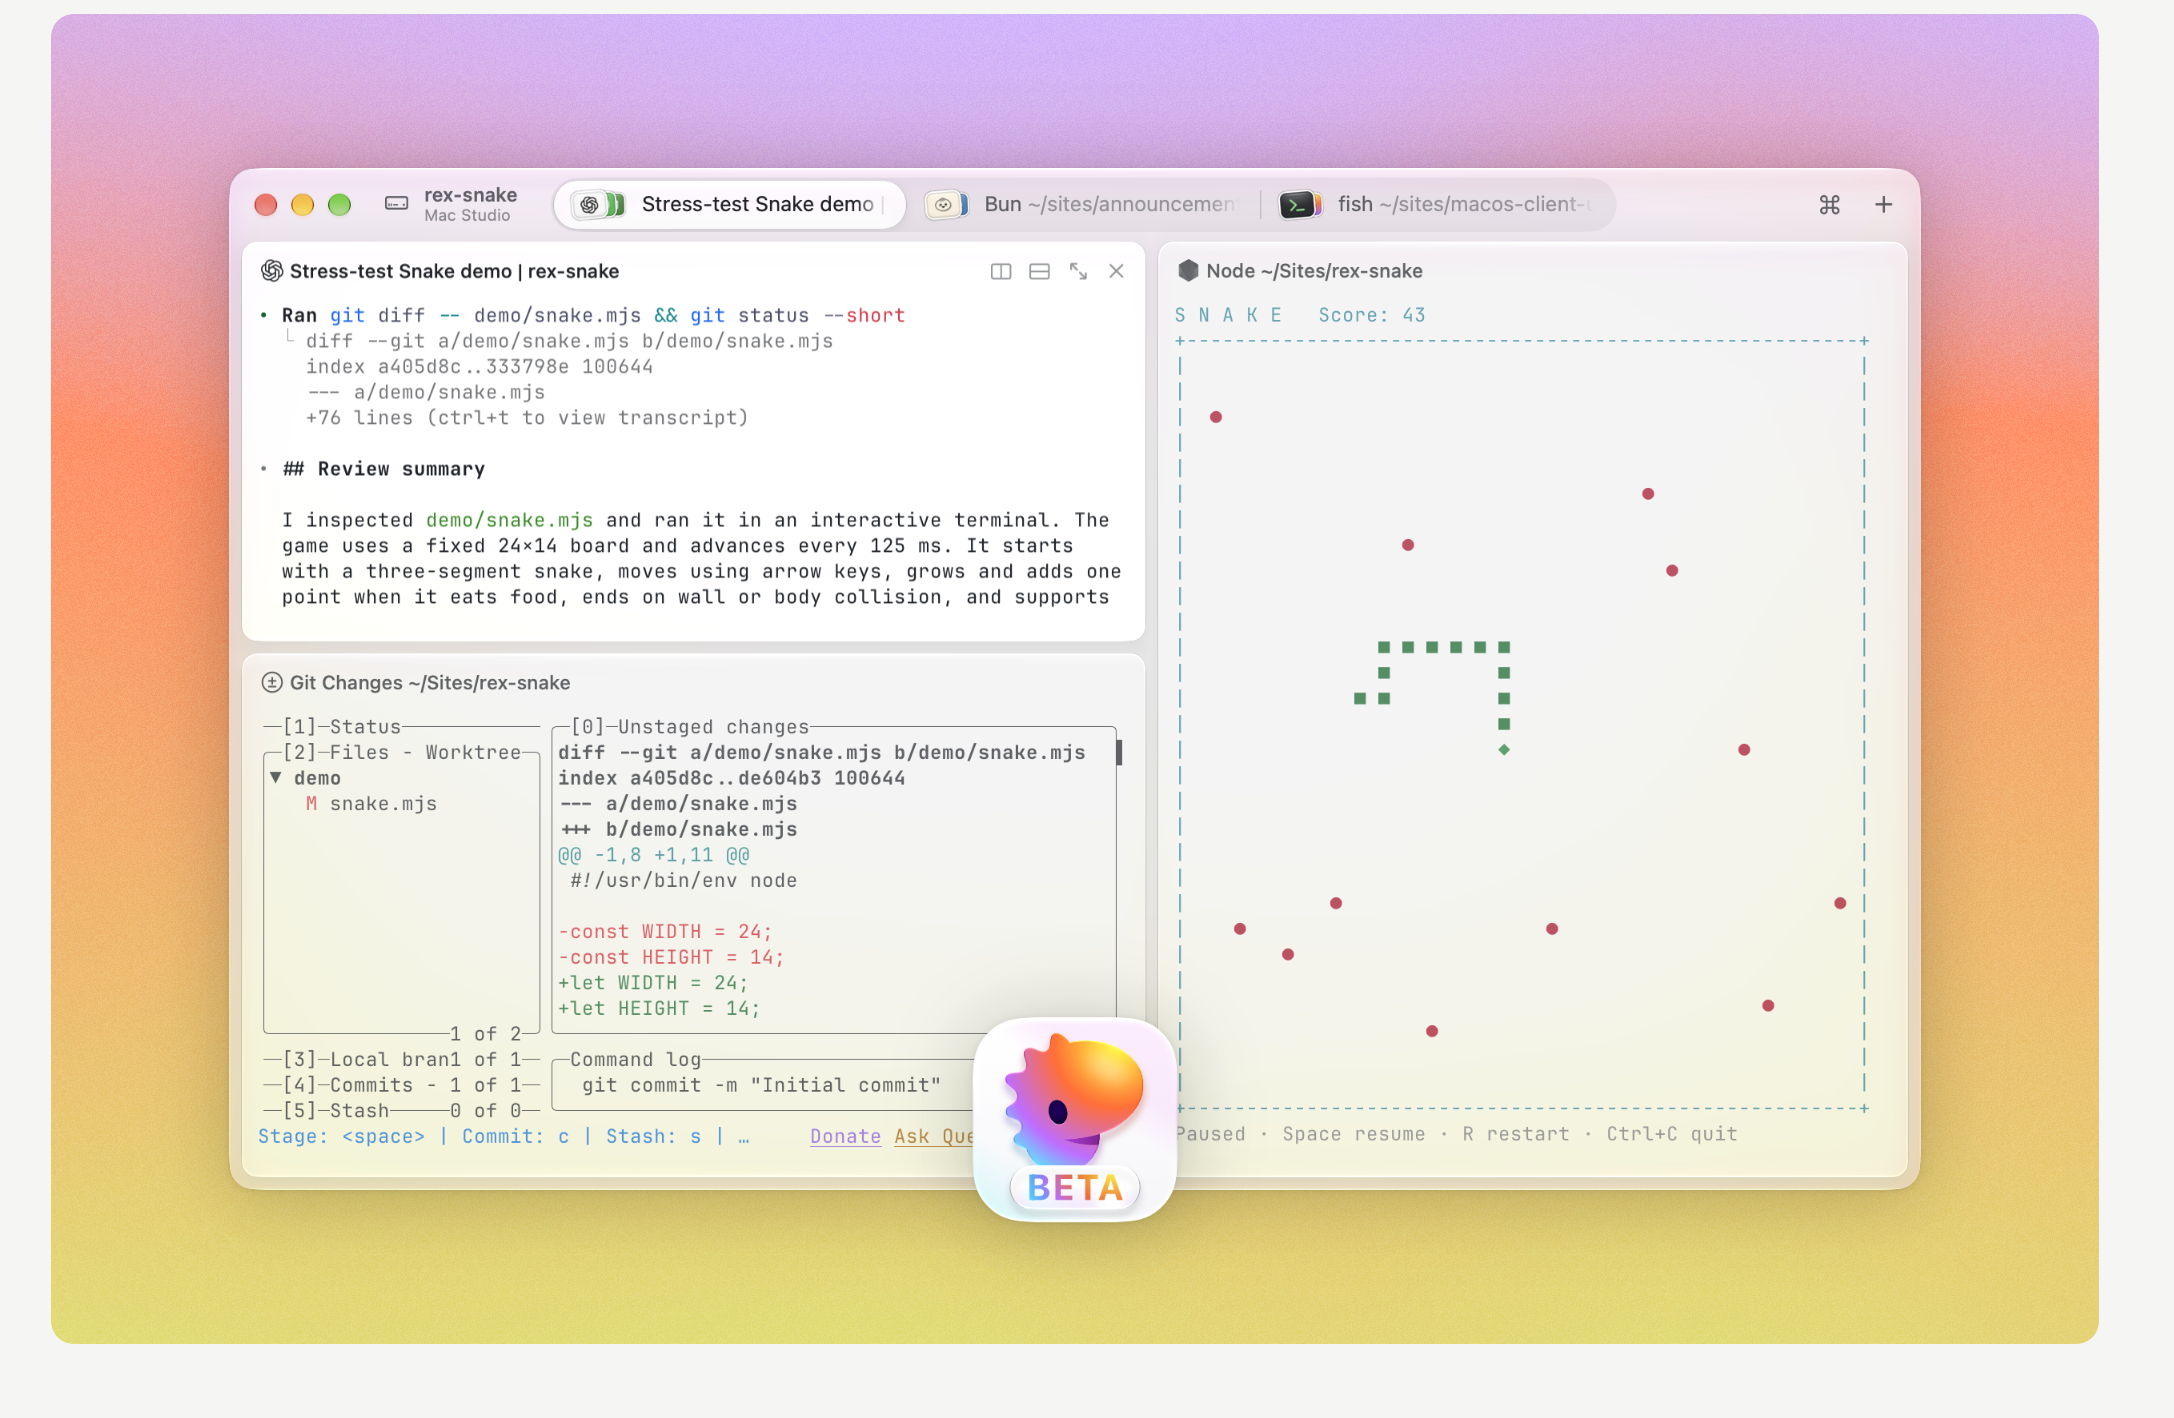
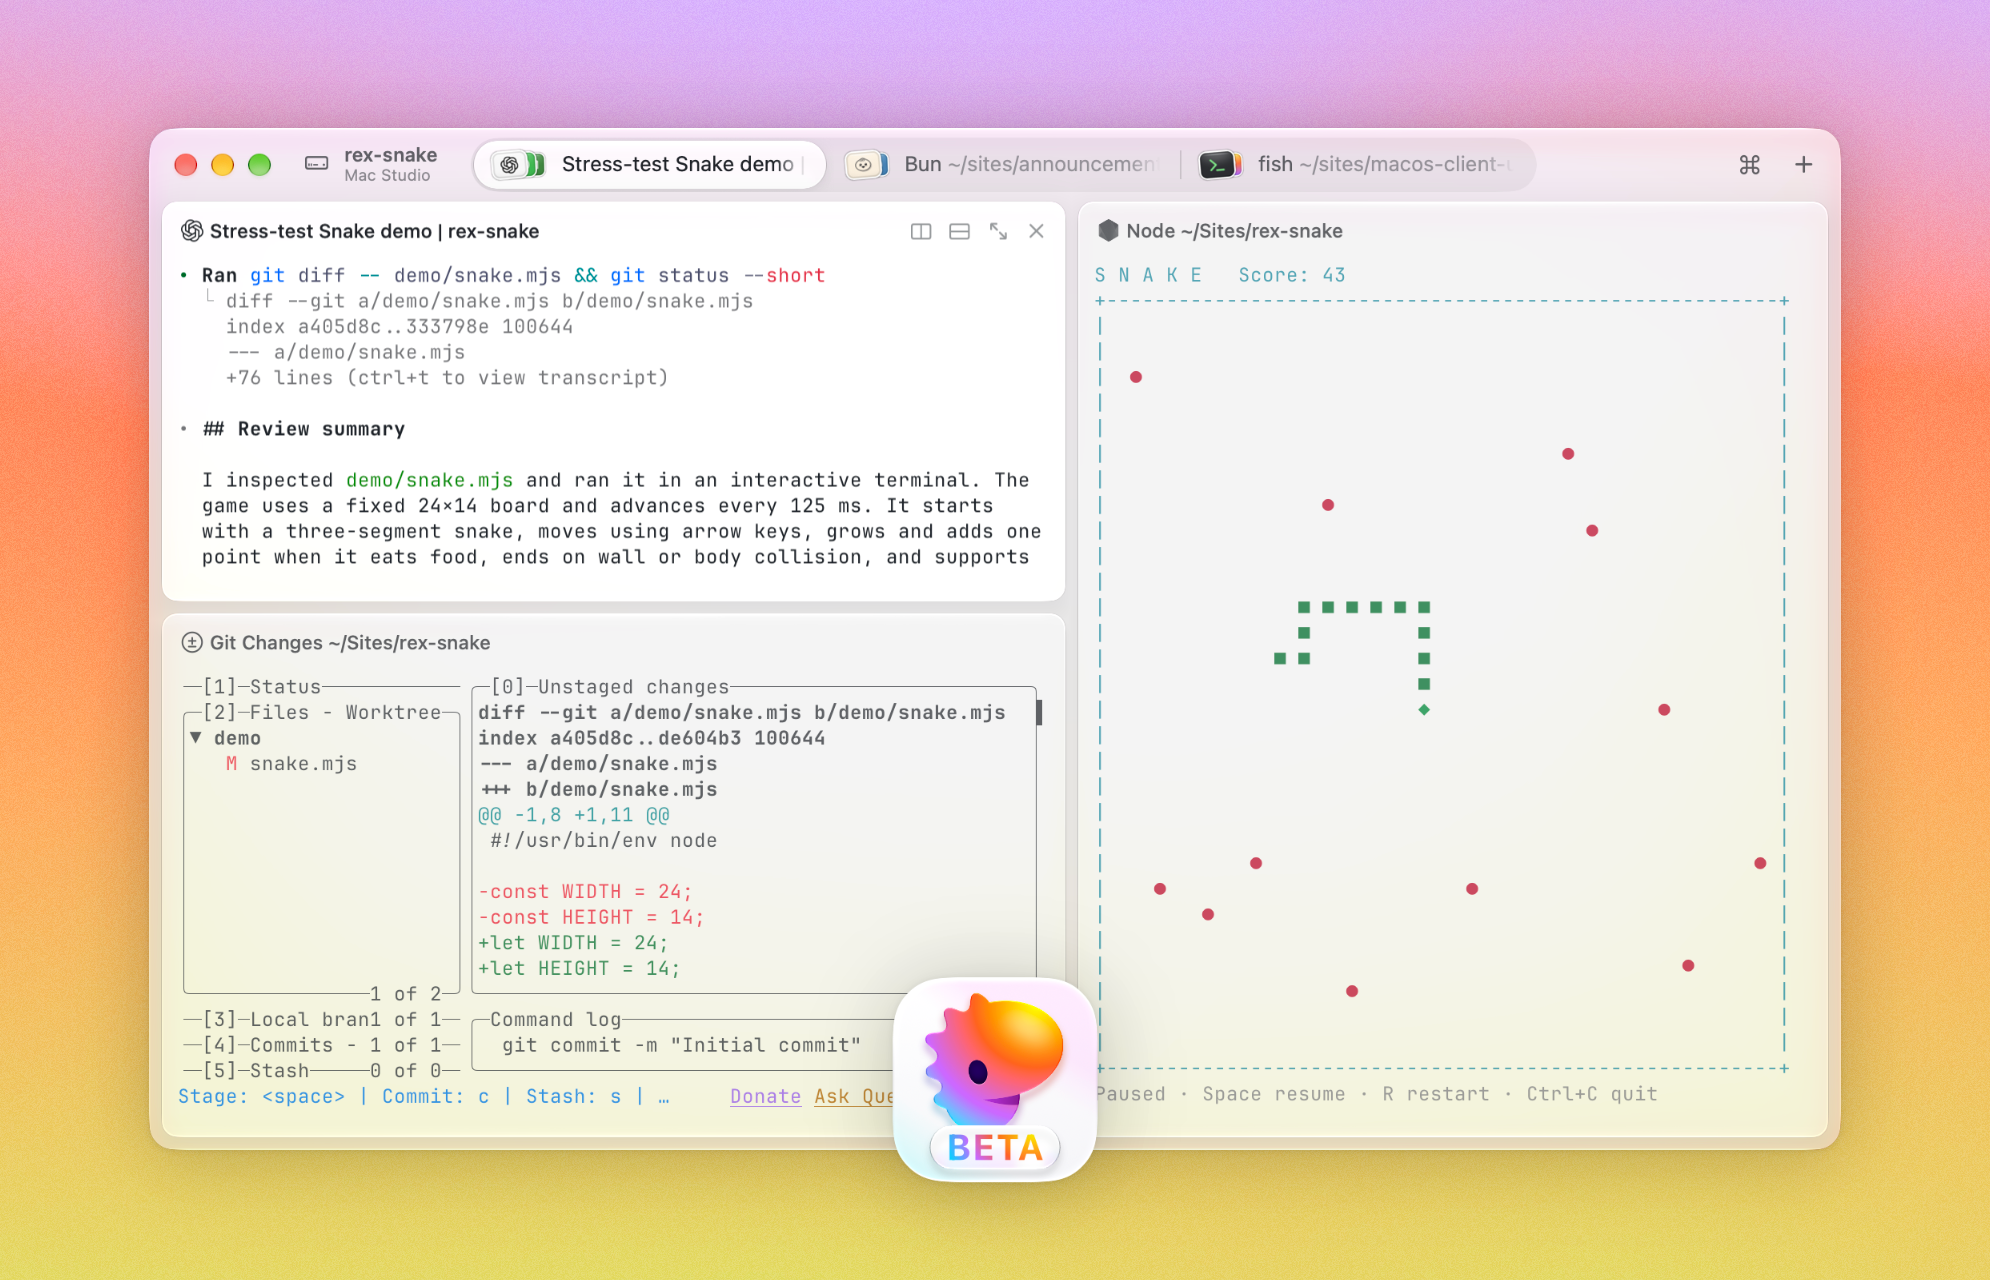
Remove Rex card image margins and update article title (#14)

diff --git a/_data/blog/2026-10-23-how-i-use-rex-with-codex.md b/_data/blog/2026-10-23-how-i-use-rex-with-codex.md
@@ -2,7 +2,7 @@
 template: BlogPost
 path: /how-i-use-rex-with-codex
 date: 2026-10-23T10:00:00.000Z
-title: How I Use Rex with Codex
+title: How I Use Rex with ChatGPT Codex
 thumbnail: /assets/rex-superlogical-card.png
 hideFeaturedImage: true
 metaDescription: "How Rex clicked for me: prompts for starting local apps, testing worktrees, watching deployments, running experiments, and updating my Mac."
